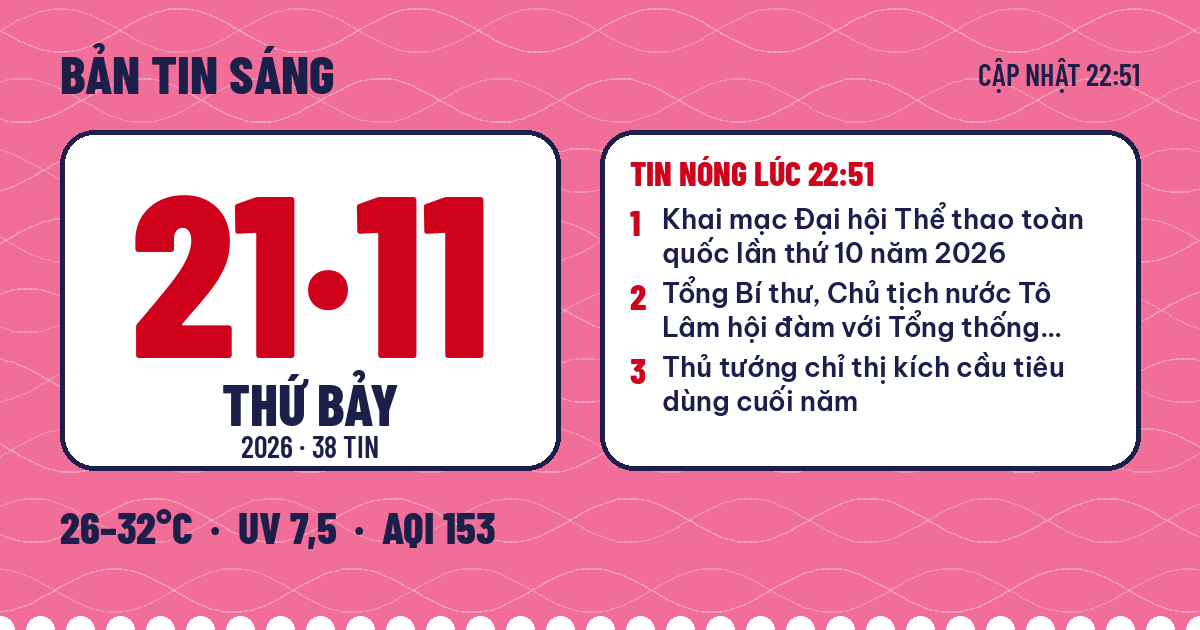
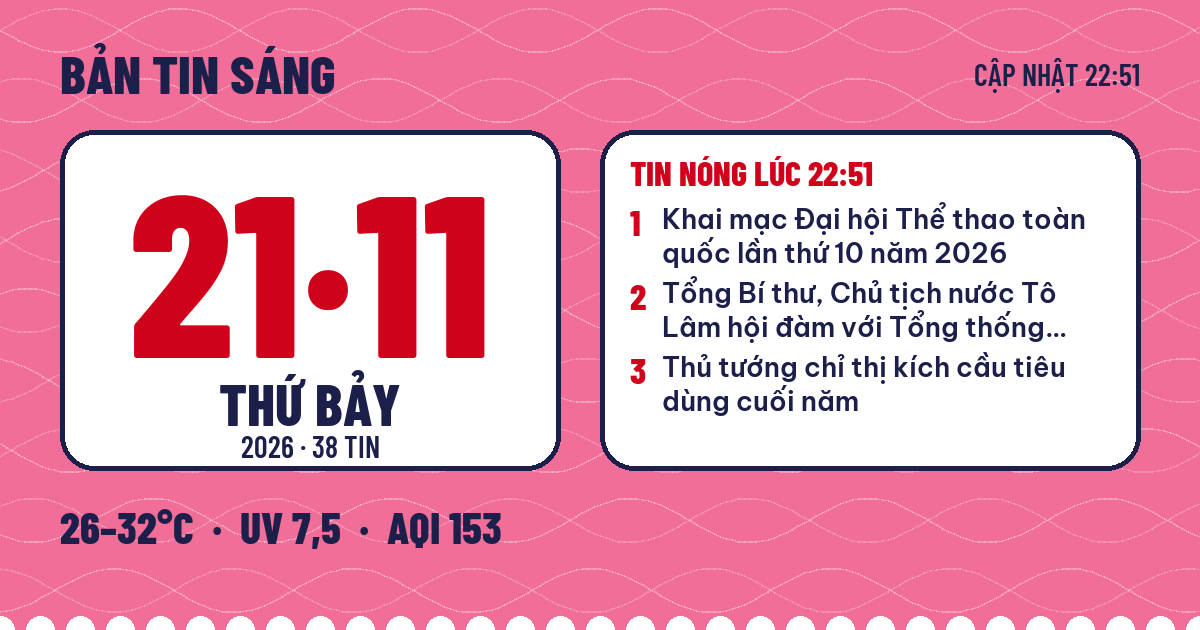
style: bolder story titles; full-width market caption
Titles use Be Vietnam Pro 700 (self-hosted) at 19-20px with softer
summary text underneath; hot list and sheet titles follow. Market board
caption no longer shrinks to half width.

diff --git a/docs/index.html b/docs/index.html
@@ -36,7 +36,10 @@ try{var v=localStorage.getItem('banTinSang.view');if(v==='list'||v==='mag'||v===
 @font-face{font-family:'Be Vietnam Pro';font-style:normal;font-weight:400;font-display:swap;src:url(fonts/BeVietnamPro-400-latin.woff2) format('woff2');unicode-range:U+0000-00FF, U+0131, U+0152-0153, U+02BB-02BC, U+02C6, U+02DA, U+02DC, U+0304, U+0308, U+0329, U+2000-206F, U+20AC, U+2122, U+2191, U+2193, U+2212, U+2215, U+FEFF, U+FFFD}
 @font-face{font-family:'Be Vietnam Pro';font-style:normal;font-weight:600;font-display:swap;src:url(fonts/BeVietnamPro-600-vietnamese.woff2) format('woff2');unicode-range:U+0102-0103, U+0110-0111, U+0128-0129, U+0168-0169, U+01A0-01A1, U+01AF-01B0, U+0300-0301, U+0303-0304, U+0308-0309, U+0323, U+0329, U+1EA0-1EF9, U+20AB}
 @font-face{font-family:'Be Vietnam Pro';font-style:normal;font-weight:600;font-display:swap;src:url(fonts/BeVietnamPro-600-latin-ext.woff2) format('woff2');unicode-range:U+0100-02BA, U+02BD-02C5, U+02C7-02CC, U+02CE-02D7, U+02DD-02FF, U+0304, U+0308, U+0329, U+1D00-1DBF, U+1E00-1E9F, U+1EF2-1EFF, U+2020, U+20A0-20AB, U+20AD-20C4, U+2113, U+2C60-2C7F, U+A720-A7FF}
-@font-face{font-family:'Be Vietnam Pro';font-style:normal;font-weight:600;font-display:swap;src:url(fonts/BeVietnamPro-600-latin.woff2) format('woff2');unicode-range:U+0000-00FF, U+0131, U+0152-0153, U+02BB-02BC, U+02C6, U+02DA, U+02DC, U+0304, U+0308, U+0329, U+2000-206F, U+20AC, U+2122, U+2191, U+2193, U+2212, U+2215, U+FEFF, U+FFFD}:root{
+@font-face{font-family:'Be Vietnam Pro';font-style:normal;font-weight:600;font-display:swap;src:url(fonts/BeVietnamPro-600-latin.woff2) format('woff2');unicode-range:U+0000-00FF, U+0131, U+0152-0153, U+02BB-02BC, U+02C6, U+02DA, U+02DC, U+0304, U+0308, U+0329, U+2000-206F, U+20AC, U+2122, U+2191, U+2193, U+2212, U+2215, U+FEFF, U+FFFD}
+@font-face{font-family:'Be Vietnam Pro';font-style:normal;font-weight:700;font-display:swap;src:url(fonts/BeVietnamPro-700-vietnamese.woff2) format('woff2');unicode-range:U+0102-0103, U+0110-0111, U+0128-0129, U+0168-0169, U+01A0-01A1, U+01AF-01B0, U+0300-0301, U+0303-0304, U+0308-0309, U+0323, U+0329, U+1EA0-1EF9, U+20AB}
+@font-face{font-family:'Be Vietnam Pro';font-style:normal;font-weight:700;font-display:swap;src:url(fonts/BeVietnamPro-700-latin-ext.woff2) format('woff2');unicode-range:U+0100-02BA, U+02BD-02C5, U+02C7-02CC, U+02CE-02D7, U+02DD-02FF, U+0304, U+0308, U+0329, U+1D00-1DBF, U+1E00-1E9F, U+1EF2-1EFF, U+2020, U+20A0-20AB, U+20AD-20C4, U+2113, U+2C60-2C7F, U+A720-A7FF}
+@font-face{font-family:'Be Vietnam Pro';font-style:normal;font-weight:700;font-display:swap;src:url(fonts/BeVietnamPro-700-latin.woff2) format('woff2');unicode-range:U+0000-00FF, U+0131, U+0152-0153, U+02BB-02BC, U+02C6, U+02DA, U+02DC, U+0304, U+0308, U+0329, U+2000-206F, U+20AC, U+2122, U+2191, U+2193, U+2212, U+2215, U+FEFF, U+FFFD}:root{
   /* Locked ticket palette: stub (by weekday) · serial red · ink · paper */
   --stub:#f06e98; --stub-ink:#1b1f4a; --field:#ffffff; --serial:#d0021b; --field-muted:#4a4e78; --engrave:rgba(255,255,255,.42);
   --red:#d0021b; --ink:#1b1f4a; --paper:#ffffff; --muted:#4a4e78; --rule:#1b1f4a;
@@ -181,9 +184,9 @@ main{padding:4px 0 8px}
   border-radius:calc(var(--r) - 10px);corner-shape:squircle;box-shadow:0 1px 3px rgba(0,0,0,.25)}
 [data-view="card"] .item[data-flag]::before{top:10px;right:10px;border-radius:calc(var(--r) - 14px);corner-shape:squircle;z-index:1}
 [data-view="card"] .body{padding:10px 12px 0}
-[data-view="card"] .item h4{text-wrap:pretty}
+[data-view="card"] .item h4{text-wrap:pretty;font-size:20px}
 .no{font:800 26px/1 var(--cond);color:var(--red);padding-top:2px}
-.item h4{margin:0;font:600 17px/1.4 var(--read);max-width:var(--measure);text-wrap:balance}
+.item h4{margin:0;font:700 19px/1.32 var(--read);letter-spacing:-.01em;max-width:var(--measure);text-wrap:balance}
 .sev{display:inline-block;width:1.35em;line-height:1;vertical-align:-.12em}
 .sv{width:1.05em;height:1.05em;display:inline-block}
 .sv-high .sv-bg{fill:var(--sys-red)}.sv-med .sv-bg{fill:var(--sys-orange)}.sv-low .sv-bg{fill:var(--sys-gray)}
@@ -191,7 +194,7 @@ main{padding:4px 0 8px}
 .ic-loc{width:.95em;height:.95em;fill:currentColor;margin-right:.4em;vertical-align:-.12em}
 .advice li.alert::before{content:"Cảnh báo"}
 .tag{display:inline-block;vertical-align:2px;margin-left:6px;font:800 11px/1 var(--cond);letter-spacing:.1em;text-transform:uppercase;color:var(--paper);background:var(--red);padding:3px 5px}
-.sum{margin:3px 0 0;max-width:var(--measure);color:var(--ink)}
+.sum{margin:6px 0 0;max-width:var(--measure);font-size:15.5px;line-height:1.55;color:color-mix(in srgb,var(--ink) 78%,var(--paper))}
 .item details{margin-top:6px}
 .item summary{display:inline-flex;gap:8px;align-items:baseline;cursor:pointer;list-style:none;font:600 13px var(--cond);letter-spacing:.1em;text-transform:uppercase;color:var(--muted)}
 .item summary::-webkit-details-marker{display:none}
@@ -283,7 +286,7 @@ footer b{color:var(--ink);font-weight:600}
 .sh-img img{width:100%;height:100%;object-fit:cover;display:block}
 .sh-meta{display:flex;align-items:center;gap:10px;font:600 13px var(--cond);letter-spacing:.1em;text-transform:uppercase;color:var(--muted)}
 .sh-meta b{font:800 22px/1 var(--cond);color:var(--red);letter-spacing:0}
-.sh-body h3{margin:8px 0 6px;font:600 21px/1.35 var(--read);text-wrap:balance}
+.sh-body h3{margin:8px 0 6px;font:700 23px/1.3 var(--read);letter-spacing:-.01em;text-wrap:balance}
 .sh-body .sum{font-size:17px}
 .sh-body .full{margin-top:14px}
 .sh-body .full dd{font-size:17px}
@@ -329,7 +332,7 @@ html.sheet-open{overflow:hidden}
 .rf.spin .ic-rf{animation:rfspin .8s linear infinite}
 @keyframes rfspin{to{transform:rotate(360deg)}}
 @media (prefers-reduced-motion:reduce){.rf.spin .ic-rf{animation:none}}
-.board caption{display:flex;align-items:center;justify-content:space-between;gap:8px}
+.board caption .cap{display:flex;align-items:center;justify-content:space-between;gap:8px}
 .board caption .rf{width:26px;height:26px}
 .hot{margin-top:18px;border:2px solid var(--rule);border-radius:var(--rL);corner-shape:squircle;overflow:hidden}
 .hot-head{display:flex;align-items:center;gap:10px;padding:10px 12px;border-bottom:2px solid var(--rule);background:var(--stub);color:var(--stub-ink)}
@@ -345,7 +348,7 @@ html.sheet-open{overflow:hidden}
 .hot-list a:hover b{text-decoration:underline;text-underline-offset:3px}
 .hthumb{width:72px;aspect-ratio:1;overflow:hidden;border-radius:var(--rM);corner-shape:squircle;background:var(--stub)}
 .hthumb img{width:100%;height:100%;object-fit:cover;display:block}
-.htxt b{display:-webkit-box;-webkit-line-clamp:2;-webkit-box-orient:vertical;overflow:hidden;font:600 16px/1.35 var(--read)}
+.htxt b{display:-webkit-box;-webkit-line-clamp:2;-webkit-box-orient:vertical;overflow:hidden;font:700 16px/1.35 var(--read)}
 .htxt small{display:block;margin-top:3px;font:600 12px var(--cond);letter-spacing:.06em;text-transform:uppercase;color:var(--muted)}
 @media (min-width:700px){.hot-list{display:grid;grid-template-columns:1fr 1fr}.hot-list[hidden]{display:none}.hot-list li+li{border-top:0}.hot-list li{border-bottom:1px dashed var(--rule)}.hot-list li:nth-child(odd){border-right:1px dashed var(--rule)}}
 .toast{white-space:nowrap;max-width:calc(100vw - 32px);overflow:hidden;text-overflow:ellipsis;position:fixed;left:50%;bottom:calc(80px + env(safe-area-inset-bottom));transform:translateX(-50%);z-index:30;padding:10px 16px;border-radius:999px;background:var(--ink);color:var(--paper);font:600 14px var(--read);box-shadow:0 8px 24px rgba(0,0,0,.25);opacity:0;transition:opacity .2s;pointer-events:none}
@@ -522,7 +525,7 @@ html.sheet-open{overflow:hidden}
       <summary><h3>Kinh tế – Tài chính toàn cầu<small>4 tin</small></h3></summary>
       <div class="board" id="thi-truong">
         <table>
-          <caption><span>Bảng giá · 22:51</span><button type="button" class="rf" data-refresh aria-label="Làm mới bảng giá"><svg class="ic-rf" viewBox="0 0 20 20" aria-hidden="true"><path d="M16.2 10a6.2 6.2 0 1 1-1.9-4.47"/><path d="M15.6 2.8v3.4h-3.4"/></svg></button></caption>
+          <caption><div class="cap"><span>Bảng giá · 22:51</span><button type="button" class="rf" data-refresh aria-label="Làm mới bảng giá"><svg class="ic-rf" viewBox="0 0 20 20" aria-hidden="true"><path d="M16.2 10a6.2 6.2 0 1 1-1.9-4.47"/><path d="M15.6 2.8v3.4h-3.4"/></svg></button></div></caption>
           <tbody>
             <tr>
               <th scope="row">Dow Jones<small>Phiên 20/11</small></th>
